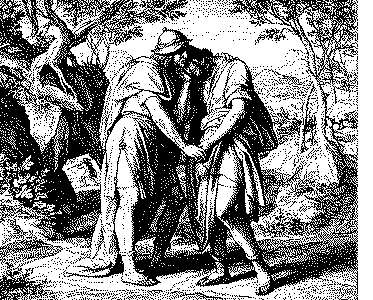
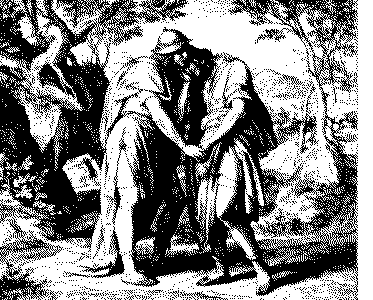
Scenes: smooth-then-dither for painted sources; Sweet Publishing attribution

Changed region(s): [[0.0, 0.0, 0.9732, 1.0], [0.0, 0.33, 0.0295, 0.36]]

diff --git a/tools/build_scenes.py b/tools/build_scenes.py
@@ -10,7 +10,7 @@ Sources: Schnorr von Carolsfeld (1860) and Gustave Dore (1866) are public domain
 illustrations are CC BY-SA 3.0 and carry a credit line.
 """
 import hashlib, io, json, pathlib, re, struct, sys, urllib.parse, urllib.request, zlib
-from PIL import Image, ImageOps
+from PIL import Image, ImageOps, ImageFilter, ImageEnhance
 ROOT=pathlib.Path(__file__).resolve().parent.parent
 SRC=ROOT/'scenes';OUT=SRC/'out';CACHE=ROOT/'.tools/scenes'
 UA={'User-Agent':'Pockle/1.0 (e-paper devotional; https://github.com/WhatsNewSaes/pockle)'}
@@ -33,7 +33,9 @@ def dither(im,crop=None):
  im=im.convert('L')
  if crop:  # fractions: left, top, right, bottom
   l,t,r,b=[float(x) for x in crop.split(',')];w,h=im.size;im=im.crop((int(w*l),int(h*t),int(w*r),int(h*b)))
- im=ImageOps.autocontrast(im,cutoff=1);w,h=im.size;scale=min(MAXW/w,MAXH/h);im=im.resize((max(1,int(w*scale)),max(1,int(h*scale))),Image.Resampling.LANCZOS)
+ w,h=im.size;scale=min(MAXW/w,MAXH/h);im=im.resize((max(1,int(w*scale)),max(1,int(h*scale))),Image.Resampling.LANCZOS)
+ # Painted sources dither into noise; a light blur and a contrast lift before Floyd-Steinberg keep the figures crisp and calm the skies.
+ im=ImageOps.autocontrast(im.filter(ImageFilter.GaussianBlur(0.8)),cutoff=2);im=ImageEnhance.Contrast(im).enhance(1.3)
  return im.convert('1')
 def pack(im):
  w,h=im.size;px=im.load();rows=bytearray()

diff --git a/THIRD_PARTY_NOTICES.md b/THIRD_PARTY_NOTICES.md
@@ -14,3 +14,7 @@ The MIT license in `LICENSE` covers this project's own code, tools and documenta
 - Team logos are trademarks of their respective owners, used for identification only.
 - The devotionals in devotionals/ are licensed separately under CC BY 4.0
   (devotionals/LICENSE).
+- Bible scene illustrations loaded onto devices are © Sweet Publishing, licensed CC BY-SA 3.0
+  (https://sweetpublishing.com, via Wikimedia Commons); engravings by Gustave Doré (1866) and
+  Julius Schnorr von Carolsfeld (1860) are public domain. They are fetched by tools/build_scenes.py
+  and are not stored in this repository.
